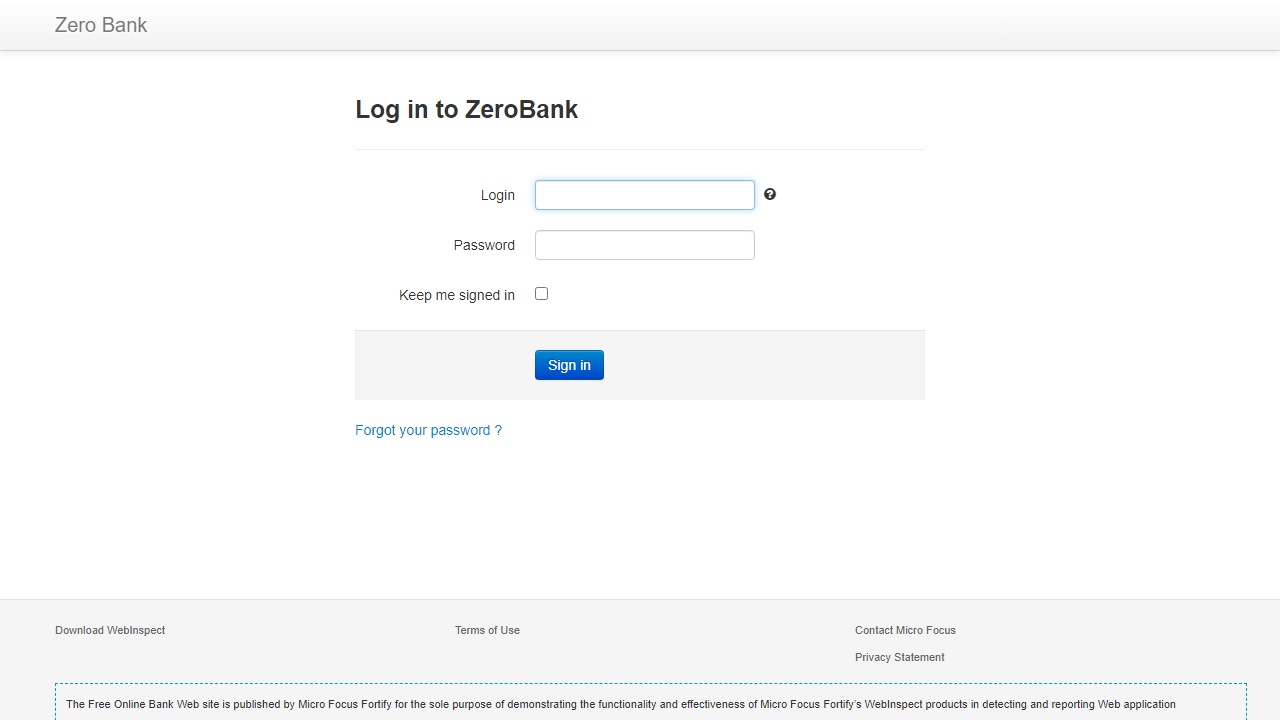
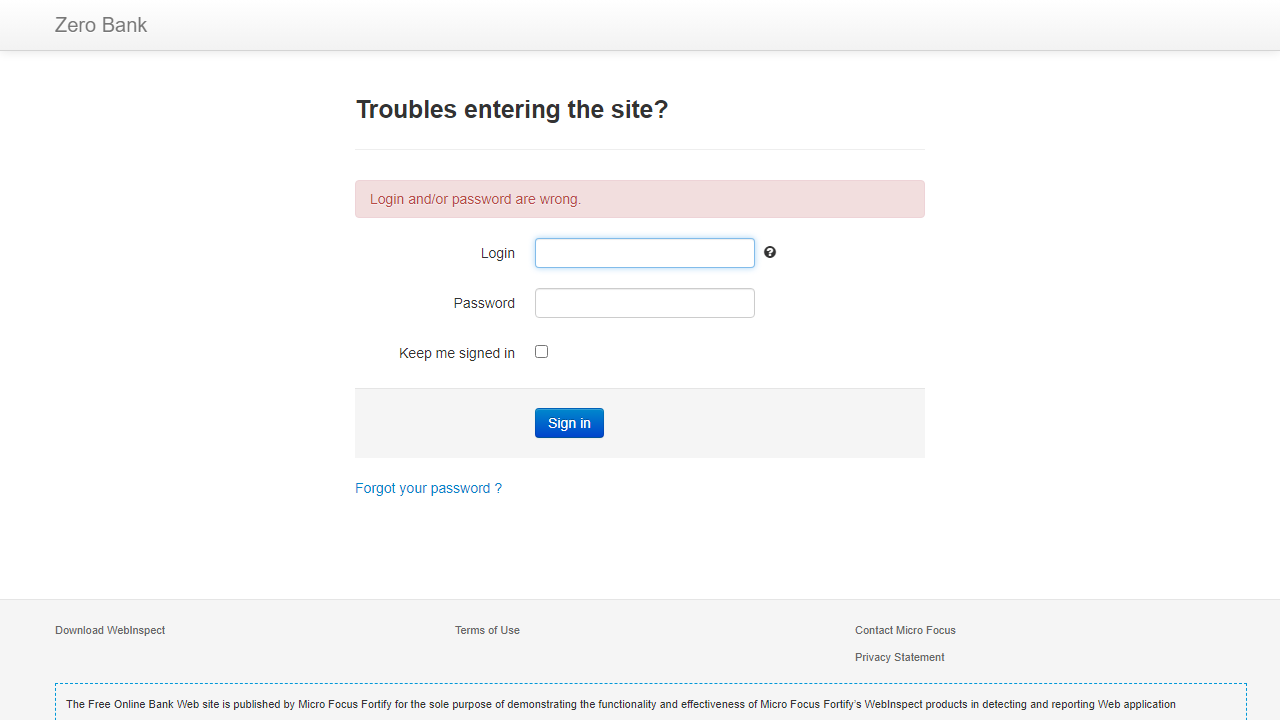
page object created

diff --git a/e2e_test.js b/e2e_test.js
@@ -1,3 +1,5 @@
+const LoginPage = require("./pages/LoginPage");
+
 Feature('Zero Bank Application - E2E Tests');
 
 Before(({ I }) => {
@@ -9,14 +11,24 @@ After(({ I }) => {
     console.log('After hook')
 })
 
-Scenario('Login Test - Negative', ({ I }) => {
+Scenario('Login Test - Negative', ({ I, LoginPage }) => {
     I.click('#signin_button')
-    I.see('Log in to ZeroBank')
-    I.fillField('#user_login', 'invalid user')
-    I.fillField('#user_password', 'invalid password')
-    I.click('Sign in')
+    LoginPage.assertLoginFormIsVisible()
+    LoginPage.submitLogin('invalid user', 'invalid password')
     I.seeElement('.alert-error')
 });
 
 
 // npx codeceptjs run e2e_test.js                      => to run this file only
+
+
+// test before using Page Object Model
+
+// Scenario('Login Test - Negative', ({ I }) => {
+//     I.click('#signin_button')
+//     I.see('Log in to ZeroBank')
+//     I.fillField('#user_login', 'invalid user')
+//     I.fillField('#user_password', 'invalid password')
+//     I.click('Sign in')
+//     I.seeElement('.alert-error')
+// });

diff --git a/codecept.conf.js b/codecept.conf.js
@@ -1,4 +1,7 @@
-const { setHeadlessWhen, setCommonPlugins } = require('@codeceptjs/configure');
+const {
+  setHeadlessWhen,
+  setCommonPlugins
+} = require('@codeceptjs/configure');
 // turn on headless mode when running with HEADLESS=true environment variable
 // export HEADLESS=true && npx codeceptjs run
 setHeadlessWhen(process.env.HEADLESS);
@@ -18,7 +21,8 @@ exports.config = {
     }
   },
   include: {
-    I: './steps_file.js'
+    "I": "./steps_file.js",
+    "LoginPage": "./pages/LoginPage.js"                       // for creating a page object: terminal command "npx codeceptjs gpo"
   },
   name: 'Playwright-Codecept'
 }

diff --git a/pages/LoginPage.js b/pages/LoginPage.js
@@ -1,0 +1,25 @@
+// include into codecept.config.js file new "LoginPage"
+
+const { I } = inject();
+
+module.exports = {
+  // Set locators 
+  loginForm: '#login_form',
+  username: '#user_login',
+  password: '#user_password',
+  submitButton: '.btn-primary',
+  alertMessage: '.alert-error',
+
+  // Create methods 
+  submitLogin(username, password) {
+    I.fillField(this.username, username)
+    I.fillField(this.password, password)
+    I.click(this.submitButton)
+  },
+
+  assertLoginFormIsVisible() {
+    I.seeElement(this.loginForm)
+  },
+
+
+}
